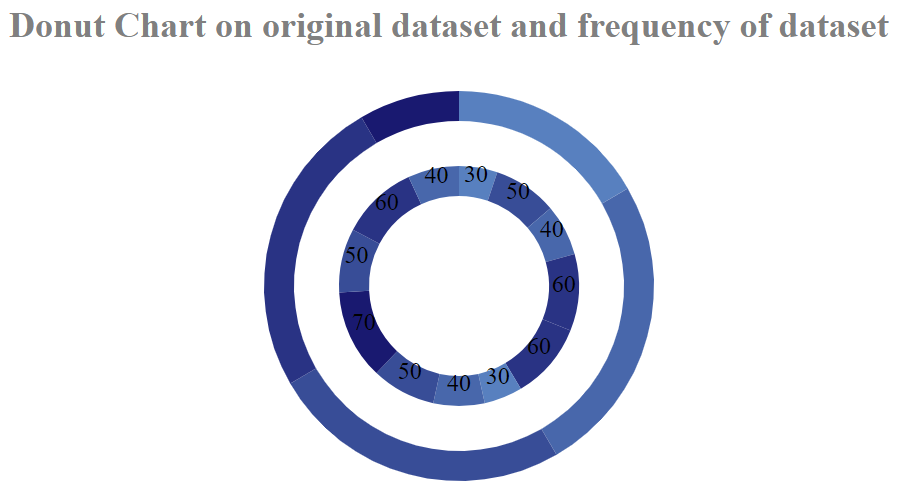
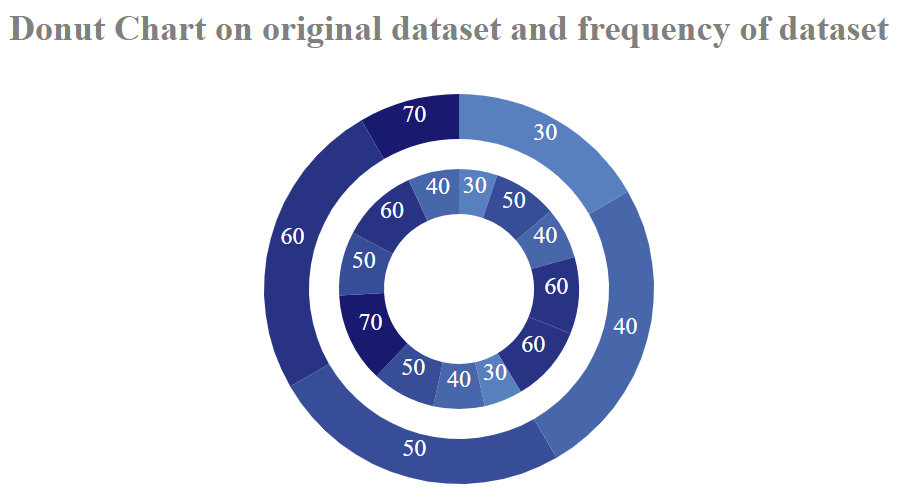
Changed d3 version to v5 and added Bubble Graph

diff --git a/Basic Visualizations with D3/BasicShapes.html b/Basic Visualizations with D3/BasicShapes.html
@@ -1,7 +1,9 @@
 <html>
 <head>
 	<title>First try at D3.js</title>
-	<script src="http://d3js.org/d3.v3.min.js"></script>
+	<!--<script src="http://d3js.org/d3.v3.min.js"></script>-->
+	<script src='https://d3js.org/d3.v5.min.js'></script>
+	<script src="//d3js.org/d3.v4.min.js"></script>
 </head>
 <body>
 	
@@ -34,7 +36,7 @@
 		
 		var r=40;
 		var p=Math.PI*2;
-		var arc=d3.svg.arc()
+		var arc=d3.arc()
 				.innerRadius(r-20)
 				.outerRadius(r)
 				.startAngle(0)
@@ -66,14 +68,22 @@
 						.attr("stroke-width",5);
 						
 		//add a curve line
-		var diagonal=d3.svg.diagonal()
-						.source({x:150, y:75})
-						.target({x:25,y:300});
-						
+		var link = d3.linkHorizontal()
+				  .x(function(d) {
+					return d.x;
+				  })
+				  .y(function(d) {
+					return d.y;
+				  });
+
+		var data = {
+		  source: {x: 150,y: 75},
+		  target: {x: 25,y: 300}};
+		
 		canvas1.append("path")
 				.attr("fill","none")
 				.attr("stroke","black")
-				.attr("d",diagonal);
+				.attr("d", link(data));
 		
 		//dataset
 		var dataset=[30,50,40,60,60,30,40,50,70,50,60,40]
@@ -84,6 +94,11 @@
 		d3.select("body")
 			.append("h2")
 			.text("Vertical Bar Chart with X & Y axes and Labels")
+			.style("color","grey");
+			
+		d3.select("body")
+			.append("h2")
+			.text("Transition in bar chart")
 			.style("color","grey");
 			
 		//create canvas to add your vizsualizations to your html tag
@@ -98,24 +113,22 @@
 		var bheight=200
 		
 		var xMax=575
-		var xScale=d3.scale.linear()
+		var xScale=d3.scaleLinear()
 						.domain([0,11])
 						.range([0,xMax]);
 		
-		var x_axis=d3.svg.axis()
-					.orient("bottom")
+		var x_axis=d3.axisBottom()
 					.scale(xScale);
 		
 		var yMax = d3.max(dataset, function(d){return d});			
-		var yScale = d3.scale.linear()
+		var yScale = d3.scaleLinear()
 					.domain([0,yMax])
 					.range([bheight,0]);
 					
-		var y_axis = d3.svg.axis()
-					.orient("left")
-                  .scale(yScale);
+		var y_axis = d3.axisLeft()
+					.scale(yScale);
 					
-		var colorScale = d3.scale.linear()
+		var colorScale = d3.scaleLinear()
 					.domain([0,yMax])
 					.range(["#87cefa","#191970"]);
 		
@@ -152,7 +165,9 @@
 			.duration(2500)
 			.delay(500)
 			.attr("height", function(d){return bheight-yScale(d);})
-			.each("end", function(){d3.select(this).style("fill",function(d){return colorScale(d);})}); //fill color added at the end of the transition
+			.on("end", function(){d3.select(this)
+									.style("fill",function(d){
+												return colorScale(d);})}); //fill color added at the end of the transition
 		
 		
 		//Create Donut chart
@@ -162,7 +177,7 @@
 			.style("color","grey");
 		
 		
-		var cwidth3=700;
+		var cwidth3=700
 		var cheigth3=300
 		
 		var canvas3= d3.select("body")
@@ -173,11 +188,11 @@
 		var group =canvas3.append("g")
 						.attr("transform","translate(300,140)");
 		
-		var arc=d3.svg.arc()
-					.innerRadius(60)
+		var arc=d3.arc()
+					.innerRadius(50)
 					.outerRadius(80);
 					
-		var pie= d3.layout.pie()
+		var pie= d3.pie()
 				.value(function(d) {return d;}).sort(null);
 		
 		var arcs=group.selectAll(".arc")
@@ -192,6 +207,7 @@
 		
 		arcs.append("text")
 			.attr("transform", function(d) {return "translate(" + arc.centroid(d) +")";})
+			.attr("fill","white")
 			.attr("text-anchor","middle")
 			.text(function(d) {return d.data;});
 
@@ -208,26 +224,30 @@
 		var group=canvas3.append('g')
 				.attr("transform","translate(300,140)");
 
-		var arc = d3.svg.arc()
+		var arc = d3.arc()
 				.innerRadius(130)
-				.outerRadius(110);
+				.outerRadius(100);
 
-		var pie = d3.layout.pie()
+		var pie = d3.pie()
 					.value(function(d) {return d.value;})
 					.sort(null);
 		
-		var path = group.selectAll('path')
+		var arcs = group.selectAll('.arc')
 				.data(pie(data))
 				.enter()
-				.append('path')
-				.attr('d', arc)
+				.append('g')
+				.attr("class","arc")
+				
+		arcs.append("path")
+				.attr("d",arc)
 				.attr('fill', function(d) {return colorScale(d.data.key);})
-				.text(function(d) {return d.data.key;});
 		
-		/*path.append("text")
+		
+		arcs.append("text")
 			.attr("transform", function(d) {return "translate(" + arc.centroid(d) +")";})
+			.attr("fill","white")
 			.attr("text-anchor","middle")
-			.text(function(d) {return d.data;});*/
+			.text(function(d,i) {return data[i].key;});
 		
 		
 		//Creating a tree/hierarchy graph from json file
